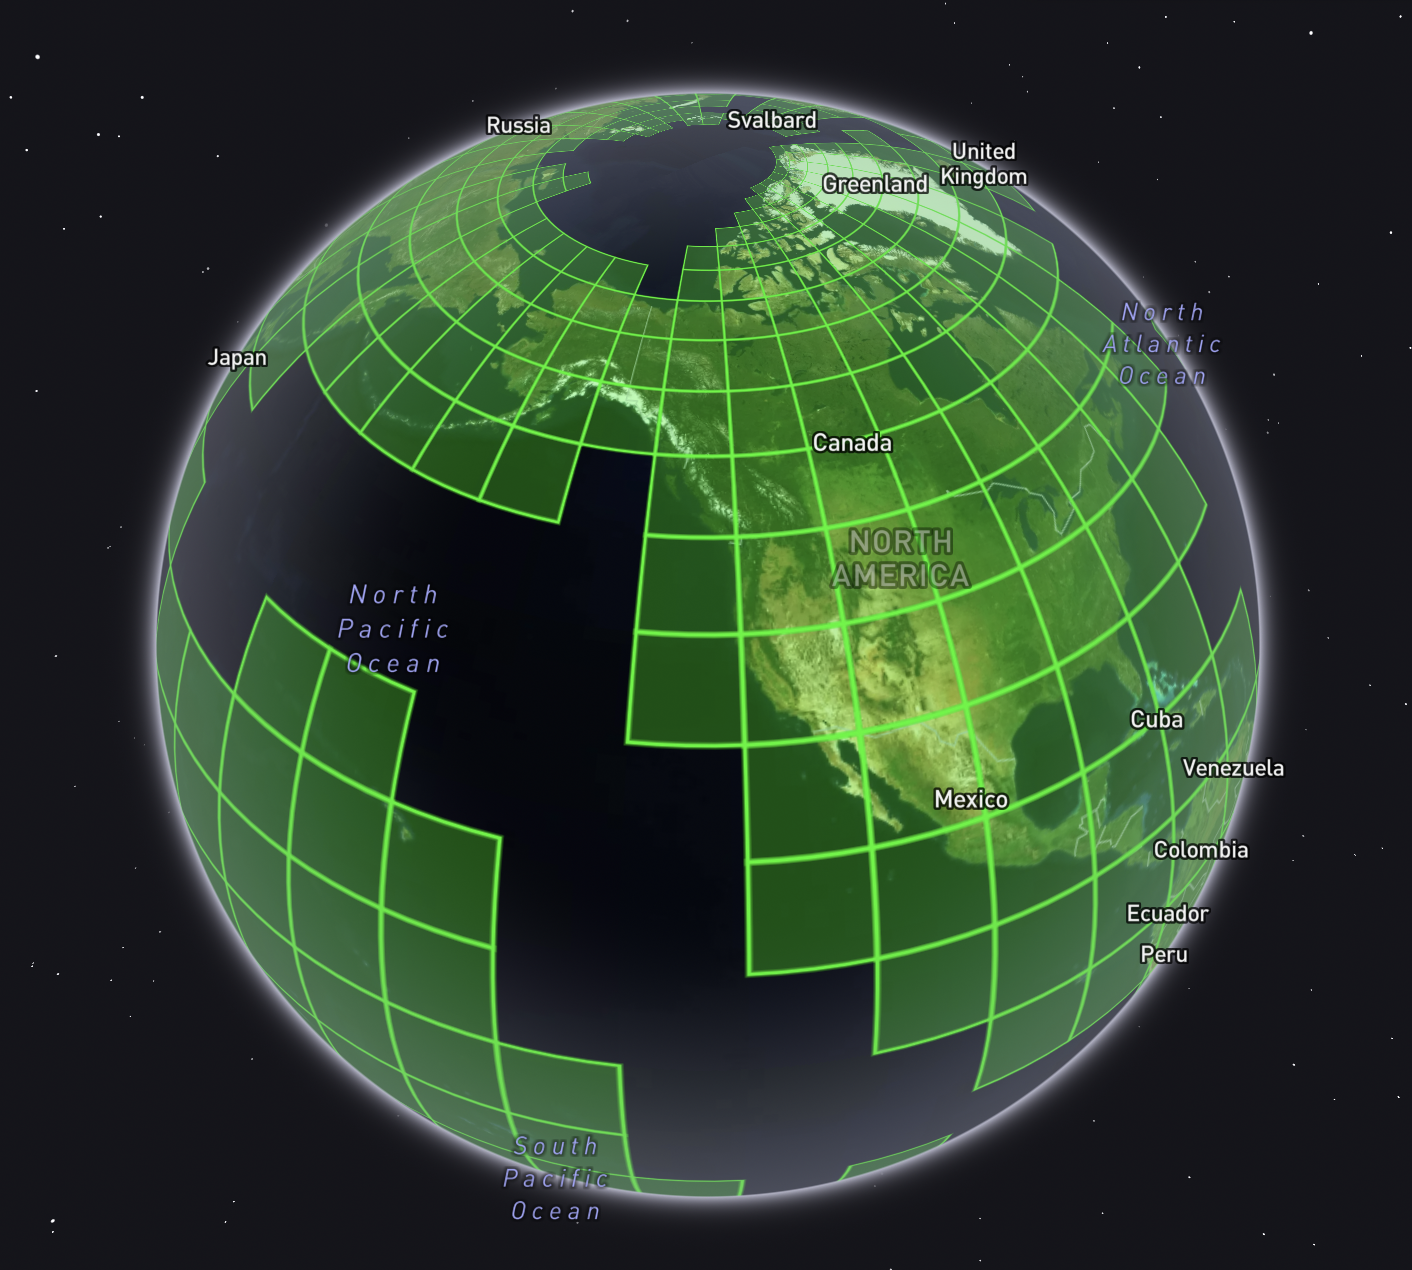
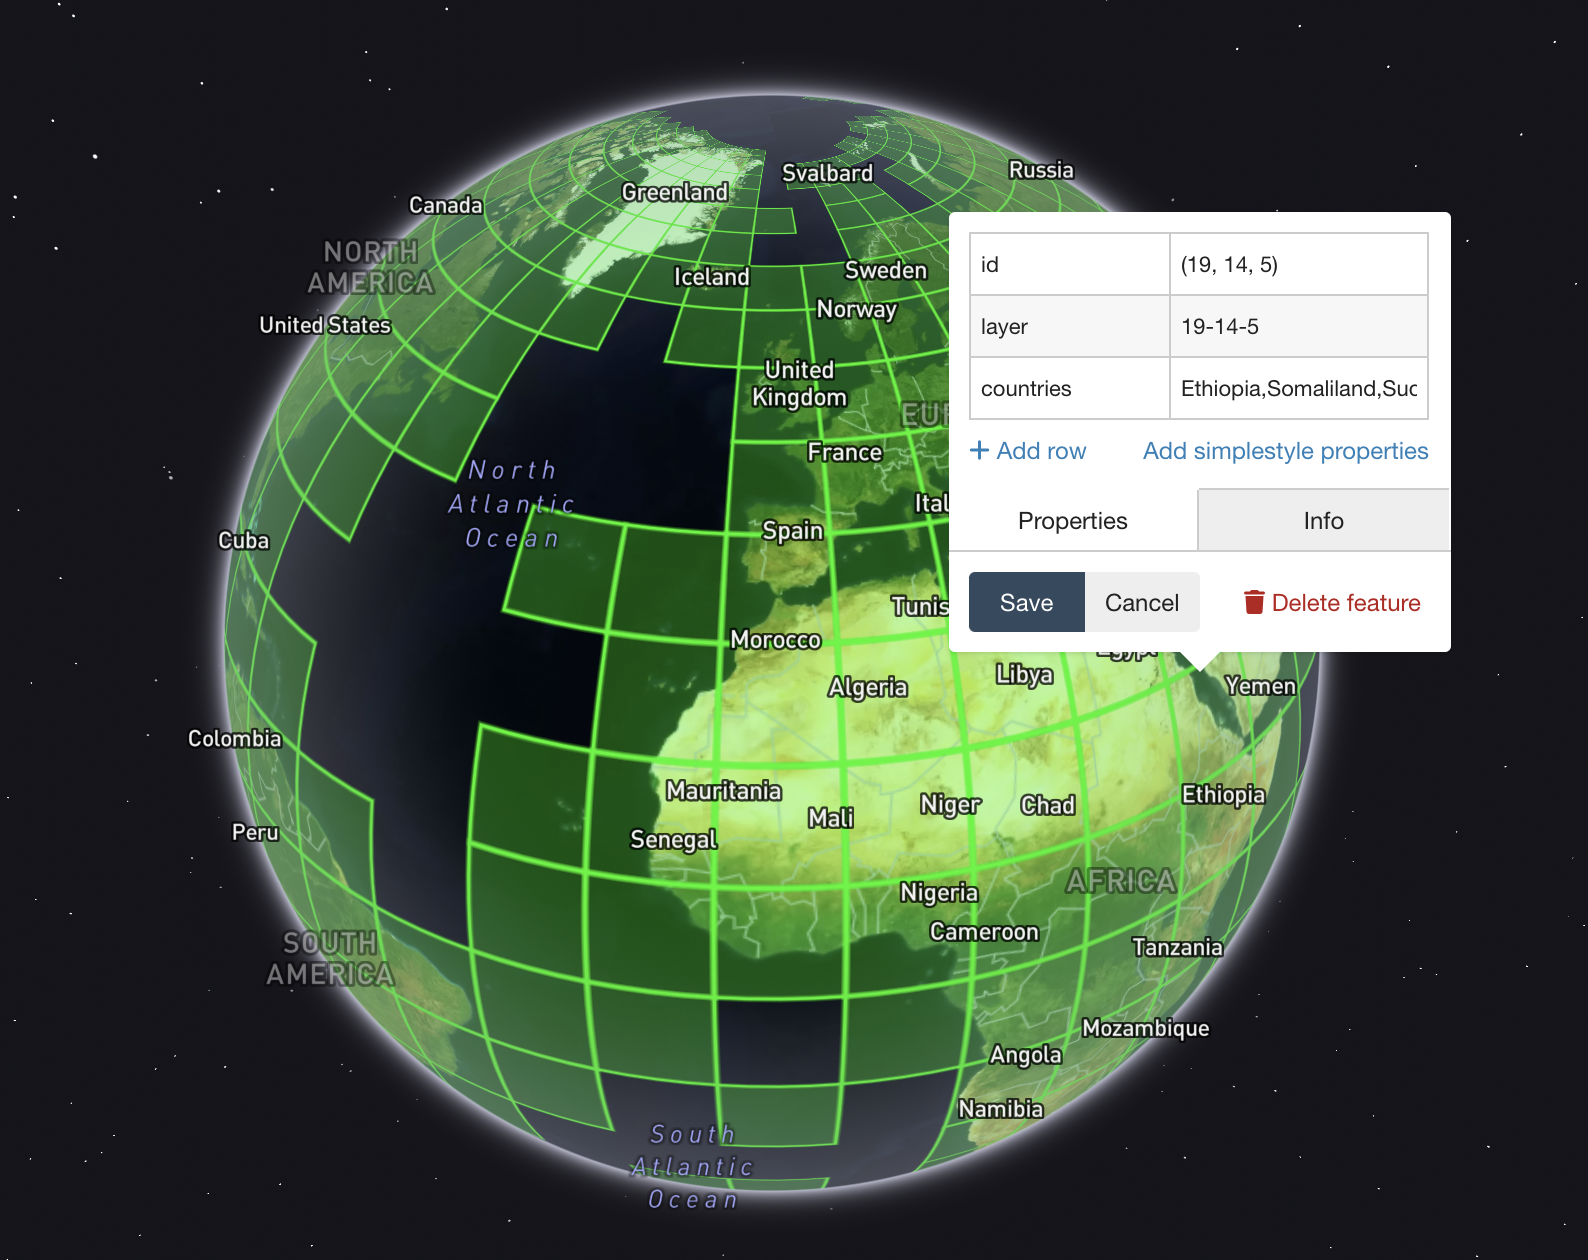
tweaks

diff --git a/shoals/posts/2023-08-17_land-tiles/index.html b/shoals/posts/2023-08-17_land-tiles/index.html
@@ -124,7 +124,9 @@
   <div class="post-content"><div>
         <h2 id="the-problem">The problem<a href="#the-problem" class="hanchor" ariaLabel="Anchor">&#8983;</a> </h2>
 <p>Mapbox is occasionally referred to - not uncharitably - as &ldquo;The Tile Company&rdquo;. It&rsquo;s true; we deal with big amounts of data, and the most common map/reduce unit we use is the <a href="https://en.wikipedia.org/wiki/Tiled_web_map">old standby Mercator/XYZ tile</a>. My past and present colleagues have built some really cool tools to make these patterns easier - witness <a href="https://github.com/mapbox/mercantile">mercantile</a> and <a href="https://github.com/mapbox/supermercado">supermercado</a>, for example - but sometimes there&rsquo;s a specific problem to solve ad-hoc. In this case:</p>
-<p><em>How can I get the geometries of every map tile at a given zoom level <strong>that intersects land?</strong></em></p>
+<blockquote>
+<p>How can I get the geometries of every map tile at a given zoom level <strong>that intersects land?</strong></p>
+</blockquote>
 <p>There&rsquo;s a whole lotta water out there, and as much as I&rsquo;d like the odd view of shipping lanes, we do not render imagery beyond a few kilometers past the world&rsquo;s coastlines. I need to knock something together to find the tiles of dry land.</p>
 <h2 id="the-solution">The solution<a href="#the-solution" class="hanchor" ariaLabel="Anchor">&#8983;</a> </h2>
 <p>The answer is open data. (It&rsquo;s always open data.) Specifically the <a href="https://www.naturalearthdata.com/">Natural Earth project</a>, which provides &ldquo;land&rdquo; polygons, in addition to all sorts of other goodies.</p>
@@ -146,7 +148,7 @@
 </span></span><span style="display:flex;"><span>unzip ne_10m_admin_0_countries.zip
 </span></span></code></pre></div><p><img src="images/2.png" alt="2"></p>
 <h3 id="combine-the-two">Combine the two<a href="#combine-the-two" class="hanchor" ariaLabel="Anchor">&#8983;</a> </h3>
-<p>This is the really facinating bit. I&rsquo;m accustomed to using <a href="">PostGIS</a> for all my spatial SQL needs, but I&rsquo;m getting more and more fond of the capabilities of SpatiaLite, which is a spatial function module for SQLite. And guess what you can use right out of the box with the aforementioned <code>ogr2ogr</code> toolset? Yep; SQLite. There&rsquo;s actually quite a bit you can shoehorn into an inline argument:</p>
+<p>This is the really facinating bit. I&rsquo;m accustomed to using <a href="https://postgis.net/">PostGIS</a> for all my spatial SQL needs, but I&rsquo;m getting more and more fond of the capabilities of SpatiaLite, which is a spatial function module for SQLite. And guess what you can use right out of the box with the aforementioned <code>ogr2ogr</code> toolset? Yep; SQLite. There&rsquo;s actually quite a bit you can shoehorn into the inline <code>-sql</code> argument:</p>
 <div class="highlight"><pre tabindex="0" style="color:#f8f8f2;background-color:#272822;-moz-tab-size:4;-o-tab-size:4;tab-size:4;"><code class="language-sh" data-lang="sh"><span style="display:flex;"><span>ogr2ogr <span style="color:#ae81ff">\
 </span></span></span><span style="display:flex;"><span><span style="color:#ae81ff"></span>    -f GeoJSON <span style="color:#ae81ff">\
 </span></span></span><span style="display:flex;"><span><span style="color:#ae81ff"></span>    z<span style="color:#e6db74">${</span>ZOOM<span style="color:#e6db74">}</span>_land_metatiles.geojson <span style="color:#ae81ff">\
@@ -208,7 +210,7 @@
 </span></span><span style="display:flex;"><span>
 </span></span><span style="display:flex;"><span><span style="color:#75715e"># Clean up</span>
 </span></span><span style="display:flex;"><span>rm -rf ne_10m_admin_0_countries.* z<span style="color:#e6db74">${</span>ZOOM<span style="color:#e6db74">}</span>_metatiles.geojsonl
-</span></span></code></pre></div><p>Happy mapping!</p>
+</span></span></code></pre></div><p>All visualizations here were done with <a href="https://geojson.io/">geojson.io</a>.</p>
 
       </div></div>
 

diff --git a/blog/content/posts/2023-08-17_land-tiles/index.md b/blog/content/posts/2023-08-17_land-tiles/index.md
@@ -17,7 +17,7 @@ color = "" #color from the theme settings
 
 Mapbox is occasionally referred to - not uncharitably - as "The Tile Company". It's true; we deal with big amounts of data, and the most common map/reduce unit we use is the [old standby Mercator/XYZ tile](https://en.wikipedia.org/wiki/Tiled_web_map). My past and present colleagues have built some really cool tools to make these patterns easier - witness [mercantile](https://github.com/mapbox/mercantile) and [supermercado](https://github.com/mapbox/supermercado), for example - but sometimes there's a specific problem to solve ad-hoc. In this case:
 
-_How can I get the geometries of every map tile at a given zoom level __that intersects land?___
+> How can I get the geometries of every map tile at a given zoom level __that intersects land?__
 
 There's a whole lotta water out there, and as much as I'd like the odd view of shipping lanes, we do not render imagery beyond a few kilometers past the world's coastlines. I need to knock something together to find the tiles of dry land.
 
@@ -58,7 +58,7 @@ unzip ne_10m_admin_0_countries.zip
 ![2](images/2.png)
 
 ### Combine the two
-This is the really facinating bit. I'm accustomed to using [PostGIS]() for all my spatial SQL needs, but I'm getting more and more fond of the capabilities of SpatiaLite, which is a spatial function module for SQLite. And guess what you can use right out of the box with the aforementioned `ogr2ogr` toolset? Yep; SQLite. There's actually quite a bit you can shoehorn into an inline argument:
+This is the really facinating bit. I'm accustomed to using [PostGIS](https://postgis.net/) for all my spatial SQL needs, but I'm getting more and more fond of the capabilities of SpatiaLite, which is a spatial function module for SQLite. And guess what you can use right out of the box with the aforementioned `ogr2ogr` toolset? Yep; SQLite. There's actually quite a bit you can shoehorn into the inline `-sql` argument:
 
 ```sh
 ogr2ogr \
@@ -132,4 +132,4 @@ ogr2ogr \
 rm -rf ne_10m_admin_0_countries.* z${ZOOM}_metatiles.geojsonl
 ```
 
-Happy mapping!
+All visualizations here were done with [geojson.io](https://geojson.io/).
